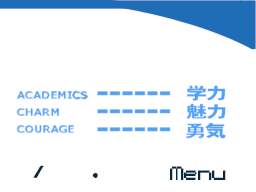
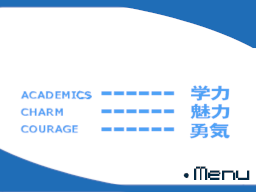
Addeded updated menuHUD, slash igmg

diff --git a/source/views/IwatodaiDormView.cpp b/source/views/IwatodaiDormView.cpp
@@ -85,21 +85,23 @@ void IwatodaiDormView::Init()
 
     // setup sprites
     // moon
-	sprites[0] = {0, SpriteSize_32x32, SpriteColorFormat_256Color, 0, 0, 202, 20};
+	sprites[0] = {0, SpriteSize_32x32, SpriteColorFormat_256Color, 0, 0, 202, -15};
     // day of the week
-    sprites[1] = {0, SpriteSize_32x32, SpriteColorFormat_256Color, 0, 1, 82, 143};
+    sprites[1] = {0, SpriteSize_32x32, SpriteColorFormat_256Color, 0, 1, 134, 143};
     // numbers
-    sprites[2] = {0, SpriteSize_32x32, SpriteColorFormat_256Color, 0, 2, 0, 0};     // month (far)
-    sprites[3] = {0, SpriteSize_32x32, SpriteColorFormat_256Color, 0, 2, -11, 140}; // month (close)
-    sprites[4] = {0, SpriteSize_32x32, SpriteColorFormat_256Color, 0, 2, 25, 140};  // day (close)
-    sprites[5] = {0, SpriteSize_32x32, SpriteColorFormat_256Color, 0, 2, 0, 20};    // day (far)
+    sprites[2] = {0, SpriteSize_32x32, SpriteColorFormat_256Color, 0, 2, -11, 141}; // month (10s)
+    sprites[3] = {0, SpriteSize_32x32, SpriteColorFormat_256Color, 0, 2, 15, 141};  // month (1s)
+    sprites[4] = {0, SpriteSize_32x32, SpriteColorFormat_256Color, 0, 2, 54, 141};  // day (10s)
+    sprites[5] = {0, SpriteSize_32x32, SpriteColorFormat_256Color, 0, 2, 80, 141};  // day (1s)
     // time
-    sprites[6] = {0, SpriteSize_64x32, SpriteColorFormat_256Color, 0, 3, 9, -12};   // piece 0
-    sprites[7] = {0, SpriteSize_64x32, SpriteColorFormat_256Color, 0, 4, 73, -12};  // piece 1
-    sprites[8] = {0, SpriteSize_64x32, SpriteColorFormat_256Color, 0, 5, 137, -12}; // piece 2
-    sprites[9] = {0, SpriteSize_64x32, SpriteColorFormat_256Color, 0, 6, 201, -12}; // piece 3
+    sprites[6] = {0, SpriteSize_64x32, SpriteColorFormat_256Color, 0, 3, -27, -5}; // piece 0
+    sprites[7] = {0, SpriteSize_64x32, SpriteColorFormat_256Color, 0, 4, 37, -5};  // piece 1
+    sprites[8] = {0, SpriteSize_64x32, SpriteColorFormat_256Color, 0, 5, 101, -5}; // piece 2
+    sprites[9] = {0, SpriteSize_64x32, SpriteColorFormat_256Color, 0, 6, 165, -5}; // piece 3
     // skill level
-    sprites[10] = {0, SpriteSize_16x16, SpriteColorFormat_256Color, 0, 7, 86, 77};
+    sprites[10] = {0, SpriteSize_16x16, SpriteColorFormat_256Color, 0, 7, 90, 77};
+    // slash
+    sprites[11] = {0, SpriteSize_16x16, SpriteColorFormat_256Color, 0, 2, 52, 157};
 
 	// initialize sub sprite engine with 1D mapping, 128 byte boundry, external palette support
 	oamInit(&oamSub, SpriteMapping_1D_128, true);
@@ -121,17 +123,19 @@ void IwatodaiDormView::Init()
     sprites[9].gfx = oamAllocateGfx(&oamSub, SpriteSize_64x32, SpriteColorFormat_256Color);
     // skill level
     sprites[10].gfx = oamAllocateGfx(&oamSub, SpriteSize_16x16, SpriteColorFormat_256Color);
+    // slash
+    sprites[11].gfx = oamAllocateGfx(&oamSub, SpriteSize_16x16, SpriteColorFormat_256Color);
 
     // get sprites
     // moon
     spriteCtrl.switchSprite(MOON, MOON_22, &moonSprite);
     // day of the week
-    spriteCtrl.switchSprite(DAY_OF_WEEK, MONDAY, &dayOfWeekSprite);
+    spriteCtrl.switchSprite(DAY_OF_WEEK, TUESDAY, &dayOfWeekSprite);
     // numbers
     spriteCtrl.switchSprite(DIGIT, DIGIT_0, &numberSprites[0]);
-    spriteCtrl.switchSprite(DIGIT, DIGIT_1, &numberSprites[1]);
-    spriteCtrl.switchSprite(DIGIT, DIGIT_3, &numberSprites[2]);
-    spriteCtrl.switchSprite(DIGIT, DIGIT_0, &numberSprites[3]);
+    spriteCtrl.switchSprite(DIGIT, DIGIT_4, &numberSprites[1]);
+    spriteCtrl.switchSprite(DIGIT, DIGIT_0, &numberSprites[2]);
+    spriteCtrl.switchSprite(DIGIT, DIGIT_7, &numberSprites[3]);
     // time
     spriteCtrl.switchSprite(TIME, AFTERNOON_0_0, &timeSprites[0]);
     spriteCtrl.switchSprite(TIME, AFTERNOON_1_0, &timeSprites[1]);
@@ -139,6 +143,8 @@ void IwatodaiDormView::Init()
     spriteCtrl.switchSprite(TIME, AFTERNOON_0_0, &timeSprites[3]);
     // skill level
     spriteCtrl.switchSprite(SKILL_SPRITE, SKILLS_LEVEL, &skillSprites[0]);
+    // slash
+    spriteCtrl.switchSprite(DIGIT, SLASH, &slashSprite);
 
     // TODO: initialize any extra sprite registers for max-case arrays?
     // ...
@@ -160,11 +166,13 @@ void IwatodaiDormView::Init()
     dmaCopy(timeSprites[3].tiles, sprites[9].gfx, timeSprites[3].tilesLen);
     // skill level
     dmaCopy(skillSprites[0].tiles, sprites[10].gfx, skillSprites[0].tilesLen);
+    // slash
+    dmaCopy(slashSprite.tiles, sprites[11].gfx, slashSprite.tilesLen);
 
     vramSetBankI(VRAM_I_LCD);
     dmaCopy(moonSprite.pal, &VRAM_I_EXT_SPR_PALETTE[0][0], moonSprite.palLen);              // moon
     dmaCopy(dayOfWeekSprite.pal, &VRAM_I_EXT_SPR_PALETTE[1][0], dayOfWeekSprite.palLen);    // day of the week
-    dmaCopy(numberSprites[0].pal, &VRAM_I_EXT_SPR_PALETTE[2][0], numberSprites[0].palLen);  // numbers
+    dmaCopy(numberSprites[0].pal, &VRAM_I_EXT_SPR_PALETTE[2][0], numberSprites[0].palLen);  // numbers & slash
     dmaCopy(timeSprites[0].pal, &VRAM_I_EXT_SPR_PALETTE[3][0], timeSprites[0].palLen);      // time (0)
     dmaCopy(timeSprites[1].pal, &VRAM_I_EXT_SPR_PALETTE[4][0], timeSprites[1].palLen);      // time (1)
     dmaCopy(timeSprites[2].pal, &VRAM_I_EXT_SPR_PALETTE[5][0], timeSprites[2].palLen);      // time (2)
@@ -255,7 +263,7 @@ ViewState IwatodaiDormView::Update()
             camPos.upX, camPos.upY, camPos.upZ);
 
         // draw sprites
-        for (int i = 0; i < 11; i++)
+        for (int i = 0; i < 12; i++)
         {
             oamSet(
                 &oamSub,                    // sub display (OamState)

diff --git a/source/core/enums.h b/source/core/enums.h
@@ -56,9 +56,26 @@ enum DayOfWeekSprite
 };
 enum TimeSprite
 {
-    AFTERNOON_0_0 = 0,
+    AFTER_SCHOOL_0_0 = 0,
+    AFTER_SCHOOL_1_0,
+    AFTER_SCHOOL_2_0,
+    AFTERNOON_0_0,
     AFTERNOON_1_0,
-    AFTERNOON_2_0
+    AFTERNOON_2_0,
+    DAYTIME_0_0,
+    DAYTIME_1_0,
+    EARLY_MORNING_0_0,
+    EARLY_MORNING_1_0,
+    EARLY_MORNING_2_0,
+    EARLY_MORNING_3_0,
+    LATE_NIGHT_0_0,
+    LATE_NIGHT_1_0,
+    LATE_NIGHT_2_0,
+    LUNCHTIME_0_0,
+    LUNCHTIME_1_0,
+    LUNCHTIME_2_0,
+    MORNING_0_0,
+    MORNING_0_1,
 };
 enum SkillSprite
 {
@@ -75,5 +92,6 @@ enum DigitSprite
     DIGIT_6,
     DIGIT_7,
     DIGIT_8,
-    DIGIT_9
+    DIGIT_9,
+    SLASH
 };

diff --git a/source/data/sprite_db.h b/source/data/sprite_db.h
@@ -58,6 +58,8 @@
 #include "afternnoon-2-0.h"
 // skills
 #include "skills-level.h"
+// slash (w/ digits)
+#include "slash.h"
 
 // sprites sharing a palette should point at the same array
 const SpriteDBEntry SPRITE_DB[] = {
@@ -123,6 +125,9 @@ const SpriteDBEntry SPRITE_DB[] = {
 
     // skills
     {SKILL_SPRITE, SKILLS_LEVEL, skills_levelTiles, skills_levelTilesLen, skills_levelPal, skills_levelPalLen},
+
+    // slash (w/ digits)
+    {DIGIT, SLASH, slashTiles, slashTilesLen, slashPal, slashPalLen},
 };
 
 const int SPRITE_DB_LEN = sizeof(SPRITE_DB) / sizeof(SPRITE_DB[0]);

diff --git a/source/views/IwatodaiDormView.h b/source/views/IwatodaiDormView.h
@@ -40,6 +40,7 @@ class IwatodaiDormView : public View {
         SpriteRegister numberSprites[4];
         SpriteRegister timeSprites[4];
         SpriteRegister skillSprites[18];
+        SpriteRegister slashSprite;
 
         // Battle participants
         curPlayer player;